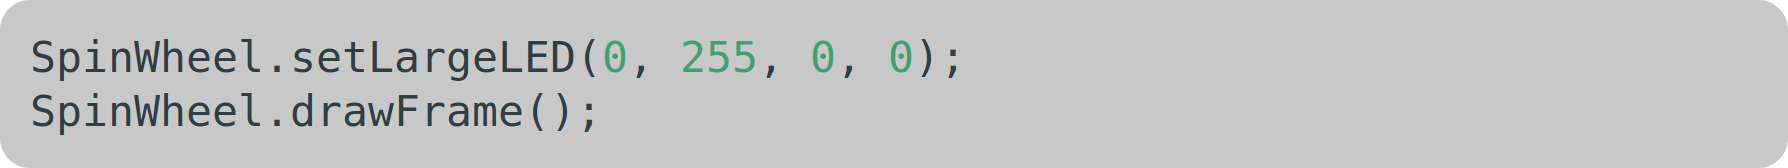
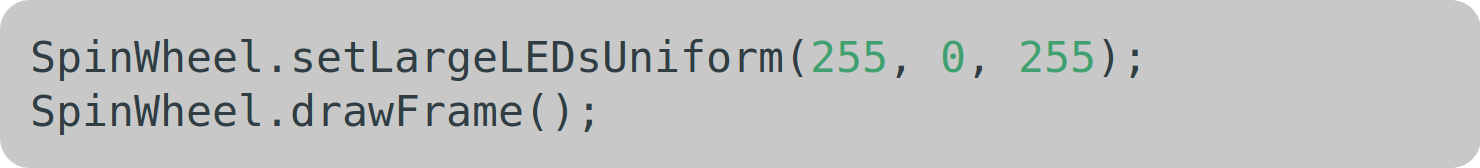
Update codeblock 2 for purple leds.

Changed region(s): [[0.0, 0.2381, 0.777, 0.4762], [0.0, 0.5357, 0.4041, 0.8036]]

diff --git a/codeblocks/codeblocks.md b/codeblocks/codeblocks.md
@@ -17,7 +17,7 @@ void loop() {
 ```
 
 ```c++
-SpinWheel.setLargeLED(0, 255, 0, 0);
+SpinWheel.setLargeLEDsUniform(255, 0, 255);
 SpinWheel.drawFrame();
 ```
 
